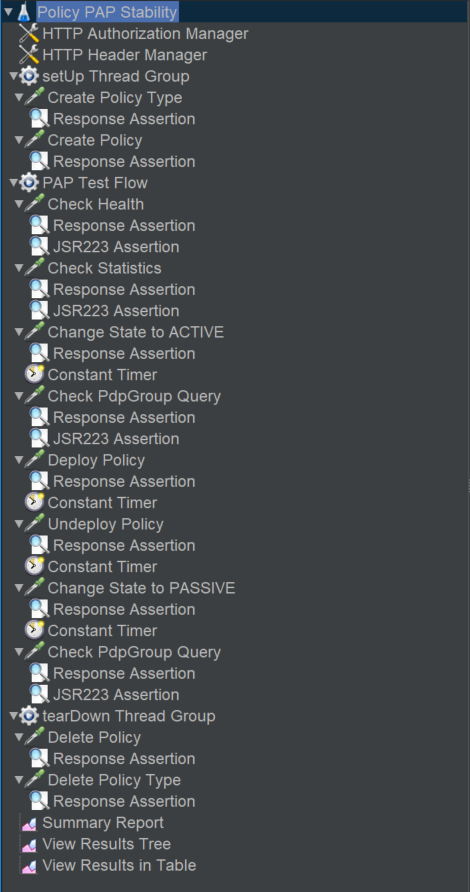
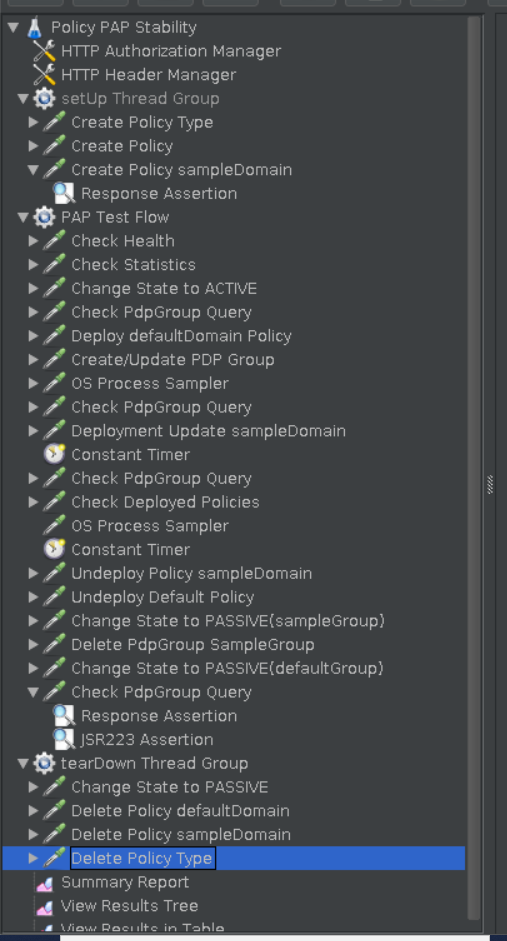
PAP Stability test Documentation update
Issue-ID: POLICY-2454

Changed region(s): [[0.0, 0.0, 1.0, 1.0]]

diff --git a/docs/development/devtools/pap-s3p.rst b/docs/development/devtools/pap-s3p.rst
@@ -47,9 +47,9 @@ RAM: 4 GB
 
 HardDisk: 40 GB
 
-Docker Version: 18.09.6
+Docker version 19.03.8
 
-Java: openjdk version "1.8.0_212"
+Java: openjdk version "11.0.7" 2020-04-14
 
 **JMeter VM details (VM1)**
 
@@ -63,9 +63,9 @@ HardDisk: 40 GB
 
 Docker Version: 18.09.6
 
-Java: openjdk version "1.8.0_212"
+Java: openjdk version "11.0.7" 2020-04-14
 
-JMeter: 5.1.1
+JMeter: 5.2.1
 
 Install Docker in VM1 & VM2
 ---------------------------
@@ -96,7 +96,7 @@ Check and Install Java
 
 .. code-block:: bash
 
-    $ apt-get install -y openjdk-8-jdk
+    $ apt-get install -y openjdk-11-jdk
     $ java -version
 
 Ensure that the Java version that is executing is OpenJDK version 8
@@ -136,14 +136,14 @@ Download & install JMeter
 
     $ mkdir jMeter
     $ cd jMeter
-    $ wget http://mirrors.whoishostingthis.com/apache//jmeter/binaries/apache-jmeter-5.1.1.zip
-    $ unzip apache-jmeter-5.1.1.zip
+    $ wget http://mirrors.whoishostingthis.com/apache//jmeter/binaries/apache-jmeter-5.2.1.zip
+    $ unzip apache-jmeter-5.2.1.zip
 
 Run JMeter
 
 .. code-block:: bash
 
-    $ /home/ubuntu/jMeter/apache-jmeter-5.1.1/bin/jmeter
+    $ /home/ubuntu/jMeter/apache-jmeter-5.2.1/bin/jmeter
 
 The above command will load the JMeter UI. Then navigate to File → Open → Browse and select the test plan jmx file to open. 
 The jmx file is present in the policy/pap git repository.
@@ -179,7 +179,7 @@ After installation make sure that following docker container is up and running.
 
     root@policytest-policytest-0-uc3y2h5x6p4j:/home/ubuntu/pap# docker ps
     CONTAINER ID        IMAGE                                                         COMMAND                  CREATED             STATUS              PORTS                                            NAMES
-    42ac0ed4b713        nexus3.onap.org:10001/onap/policy-pap:2.0.0-SNAPSHOT-latest   "bash ./policy-pap.sh"   3 days ago          Up 3 days           0.0.0.0:6969->6969/tcp, 0.0.0.0:9090->9090/tcp   policy-pap
+    42ac0ed4b713        nexus3.onap.org:10001/onap/policy-pap:2.2.3-SNAPSHOT          "bash ./policy-pap.sh"   3 days ago          Up 3 days           0.0.0.0:6969->6969/tcp, 0.0.0.0:9090->9090/tcp   policy-pap
 
 Install & configure visualVM in VM2
 -----------------------------------
@@ -196,7 +196,7 @@ Run few commands to configure permissions
 
 .. code-block:: bash
 
-    $ cd /usr/lib/jvm/java-8-openjdk-amd64/bin/
+    $ cd /usr/lib/jvm/java-11-openjdk-amd64/bin/
     $ sudo touch visualvm.policy
     $ sudo chmod 777 visualvm.policy
      
@@ -205,7 +205,7 @@ Run few commands to configure permissions
     Add the following in visualvm.policy
      
      
-    grant codebase "file:/usr/lib/jvm/java-8-openjdk-amd64/lib/tools.jar" {
+    grant codebase "file:/usr/lib/jvm/java-11-openjdk-amd64/lib/tools.jar" {
        permission java.security.AllPermission;
     };
 
@@ -213,7 +213,7 @@ Run following commands to start jstatd using port 1111
 
 .. code-block:: bash
 
-    $ cd /usr/lib/jvm/java-8-openjdk-amd64/bin/
+    $ cd /usr/lib/jvm/java-11-openjdk-amd64/bin/
     $ ./jstatd -p 1111 -J-Djava.security.policy=visualvm.policy  &
     
 Run visualVM locally to connect to remote VM2
@@ -221,6 +221,7 @@ Run visualVM locally to connect to remote VM2
 .. code-block:: bash
 
     # On your windows machine or your linux box locally, launch visualVM
+    $ nohup visualvm
     
 Connect to jstatd & remote apex-pdp JVM
 
@@ -240,16 +241,28 @@ Test Plan
 The 72 hours stability test will run the following steps sequentially in a single threaded loop.
 
 - **Create Policy Type** - creates an operational policy type using policy/api component
-- **Create Policy** - creates an operational policy using the policy type create in above step using policy/api component
+- **Create Policy defaultDomain** - creates an operational policy using the policy type create in above step using policy/api component
+- **Create Policy sampleDomain** - creates an operational policy using the policy type create in above step using policy/api component
 - **Check Health** - checks the health status of pap
 - **Check Statistics** - checks the statistics of pap
-- **Change state to ACTIVE** - changes the state of PdpGroup to ACTIVE
+- **Change state to ACTIVE** - changes the state of defaultGroup PdpGroup to ACTIVE
 - **Check PdpGroup Query** - makes a PdpGroup query request and verify that PdpGroup is in ACTIVE state.
-- **Deploy Policy** - deploys the policy in PdpGroup
-- **Undeploy Policy** - undeploy the policy from PdpGroup
-- **Change state to PASSIVE** - changes the state of PdpGroup to PASSIVE
+- **Deploy defaultDomain Policy** - deploys the policy defaultDomain in the existing PdpGroup
+- **Create/Update PDP Group** - create a new PDPGroup named sampleGroup.
+- **OS Process Sampler** - OS Process Sampler to start a new Pdp Instance
+- **Check PdpGroup Query** - makes a PdpGroup query request and verify that 2 PdpGroup are in ACTIVE state and defaultGroup has a policy deployed on it.
+- **Deployment Update sampleDomain** - deploys the policy sampleDomain in sampleGroup PdpGroup using pap api
+- **Check PdpGroup Query** - makes a PdpGroup query request and verify that defaultGroup has a policy defaultDomain deployed on it and sampleGroup has policy sampleDomain deployed on it.
+- **Check Deployed Policies** - checks for all the deployed policies using pap api.
+- **OS Process Sampler** - OS Process Sampler to stop the newly created Pdp Instance
+- **Undeploy Policy sampleDomain** - undeploys the policy sampleDomain from sampleGroup PdpGroup using pap api
+- **Undeploy Default Policy** - undeploy the policy defaultDomain from PdpGroup
+- **Change state to PASSIVE(sampleGroup)** - changes the state of sampleGroup PdpGroup to PASSIVE
+- **Delete PdpGroup SampleGroup** - delete the sampleGroup PdpGroup using pap api
+- **Change State to PASSIVE(defaultGroup)** - changes the state of defaultGroup PdpGroup to PASSIVE
 - **Check PdpGroup Query** - makes a PdpGroup query request and verify that PdpGroup is in PASSIVE state.
-- **Delete Policy** - deletes the operational policy using policy/api component
+- **Delete Policy defaultDomain** - deletes the operational policy defaultDomain using policy/api component
+- **Delete Policy sampleDomain** - deletes the operational policy sampleDomain using policy/api component
 - **Delete Policy Type** - deletes the operational policy type using policy/api component
 
 The following steps can be used to configure the parameters of test plan.
@@ -258,14 +271,16 @@ The following steps can be used to configure the parameters of test plan.
 - **HTTP Header Manager** - used to store headers which will be used for making HTTP requests.
 - **User Defined Variables** -  used to store following user defined parameters.
 
-==========  ===============================================
- **Name**    **Description**
-==========  ===============================================
- PAP_HOST     IP Address or host name of PAP component
- PAP_PORT     Port number of PAP for making REST API calls
- API_HOST     IP Address or host name of API component
- API_PORT     Port number of API for making REST API calls
-==========  ===============================================
+===========   ===================================================================
+ **Name**      **Description**
+===========   ===================================================================
+ PAP_HOST      IP Address or host name of PAP component
+ PAP_PORT      Port number of PAP for making REST API calls
+ API_HOST      IP Address or host name of API component
+ API_PORT      Port number of API for making REST API calls
+ DIR           Path where the pdp instance startup and stop script is placed
+ CONFIG_DIR    Path where the pdp default Config file is placed
+===========   ===================================================================
 
 Screenshot of PAP stability test plan
 
@@ -295,3 +310,35 @@ Stability test plan was triggered for 72 hours.
 
 .. image:: images/pap-s3p-jm-1.png
 .. image:: images/pap-s3p-jm-1.png
+
+Test Results Frankfurt release
+-------------------------------
+
+**Summary**
+
+Stability test plan was triggered for 72 hours.
+
+.. Note::
+
+              .. container:: paragraph
+
+                  Test cases for starting and stopping the PDP Instance has been included in the
+                  test plan. These test cases have resulted in a spike in the Average time taken per request.
+
+**Test Statistics**
+
+=======================  =================  ==================  ==================================
+**Total # of requests**  **Success %**      **Error %**         **Average time taken per request**
+=======================  =================  ==================  ==================================
+  29423                  100 %              0 %                 948 ms
+=======================  =================  ==================  ==================================
+
+**VisualVM Screenshot**
+
+.. image:: images/pap-s3p-vvm-1_F.png
+.. image:: images/pap-s3p-vvm-2_F.png
+
+**JMeter Screenshot**
+
+.. image:: images/pap-s3p-jm-1_F.png
+.. image:: images/pap-s3p-jm-1_F.png
